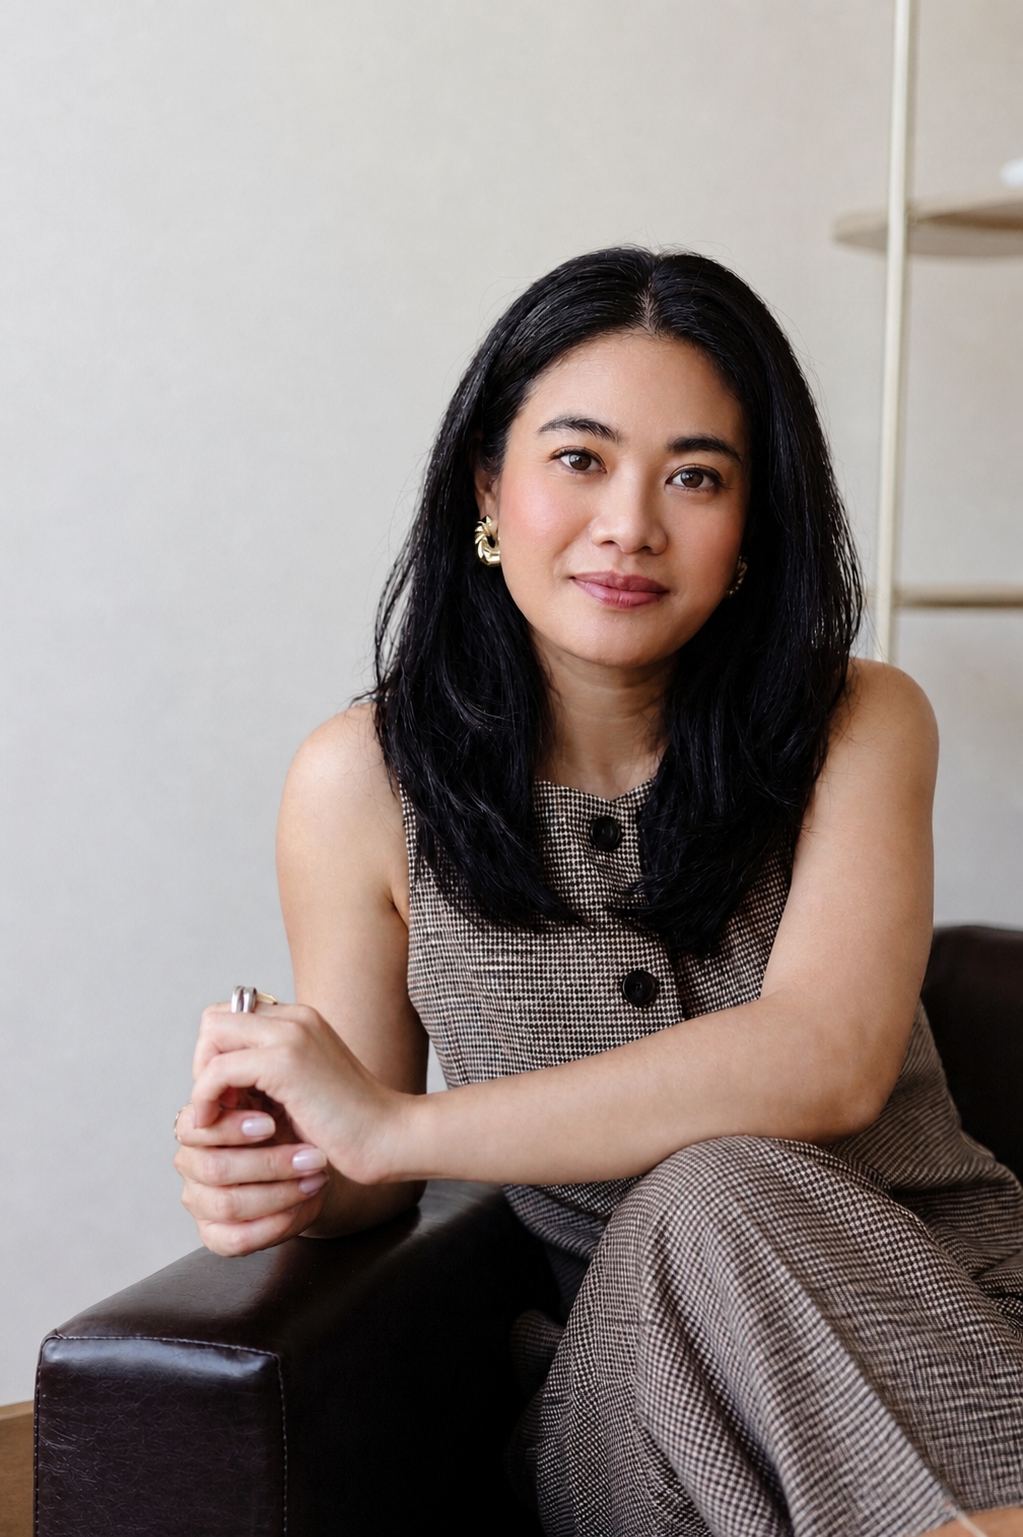
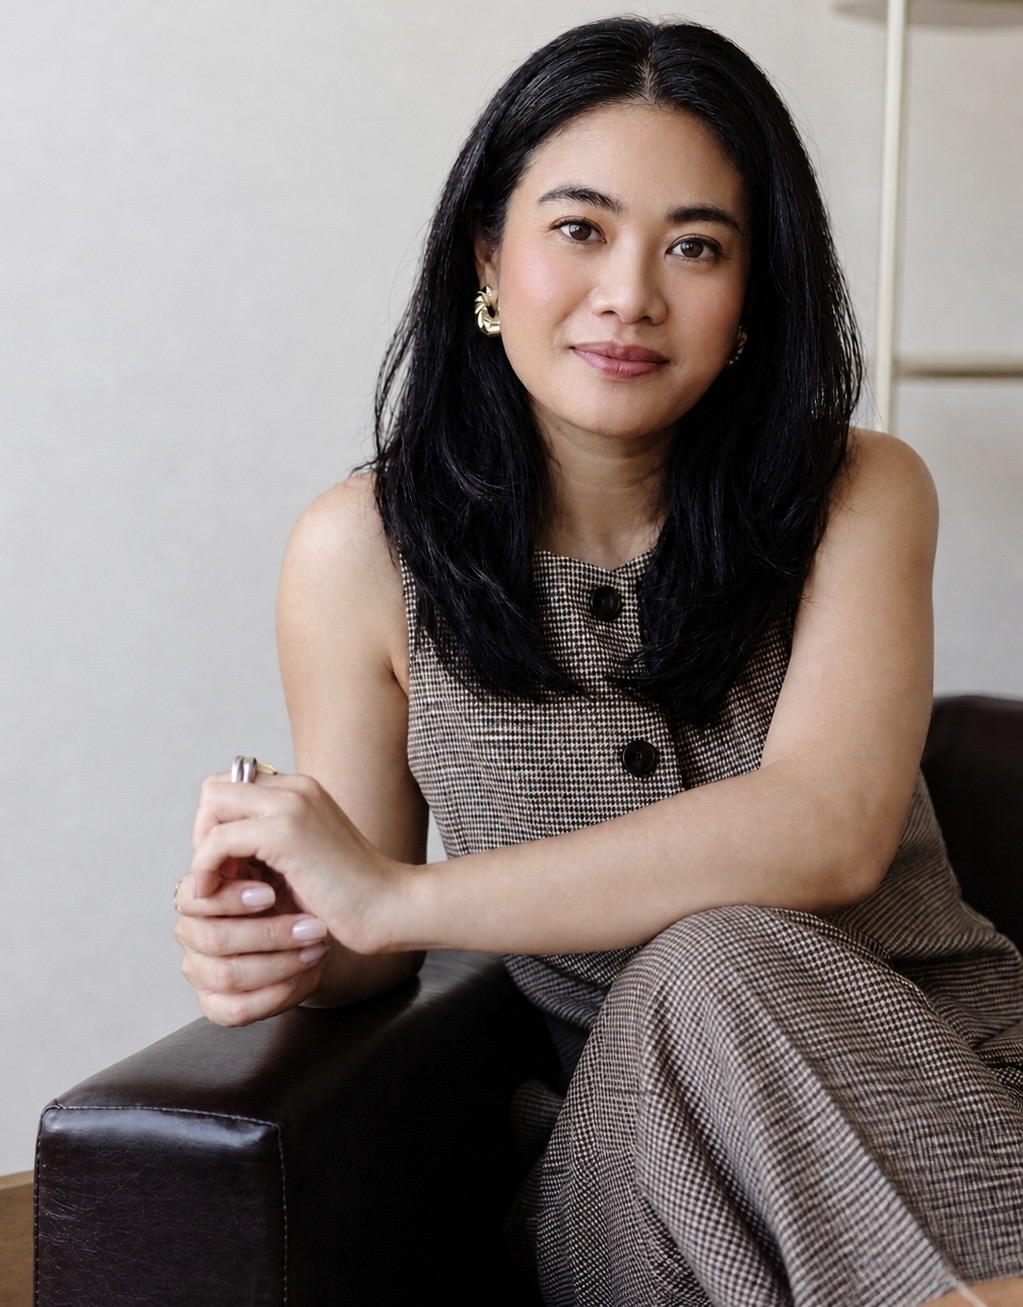
Add files via upload

diff --git a/index.html b/index.html
@@ -127,7 +127,7 @@ nav{position:fixed;top:0;left:0;right:0;z-index:100;padding:16px 60px;display:fl
 .hero-cred::before{content:'';width:14px;height:1px;background:var(--faint);flex-shrink:0}
 .hero-actions{display:flex;gap:12px;flex-wrap:wrap;opacity:0;animation:fadeUp 0.8s ease 0.5s forwards}
 .hero-photo{position:relative;z-index:1}
-.hero-photo img{width:100%;max-height:620px;object-fit:cover;object-position:center 25%;display:block;filter:grayscale(8%)}
+.hero-photo img{width:100%;height:600px;object-fit:cover;object-position:center 35%;display:block;filter:grayscale(8%)}
 .hero-photo-label{font-family:var(--body);font-size:11px;font-weight:400;letter-spacing:0.1em;text-transform:uppercase;color:var(--mid);margin-top:12px}
 
 /* BOOK DECK */
